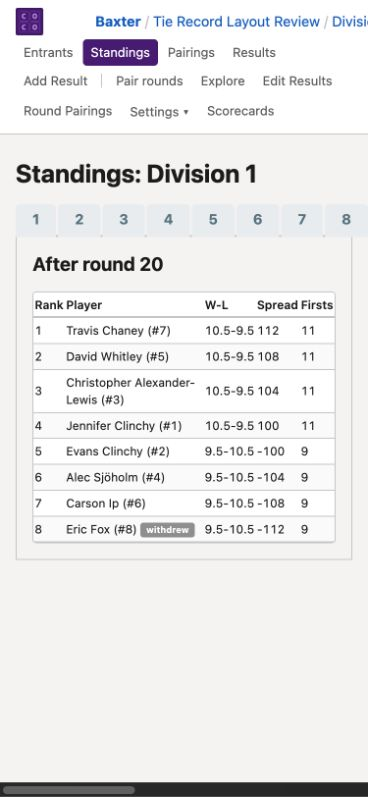
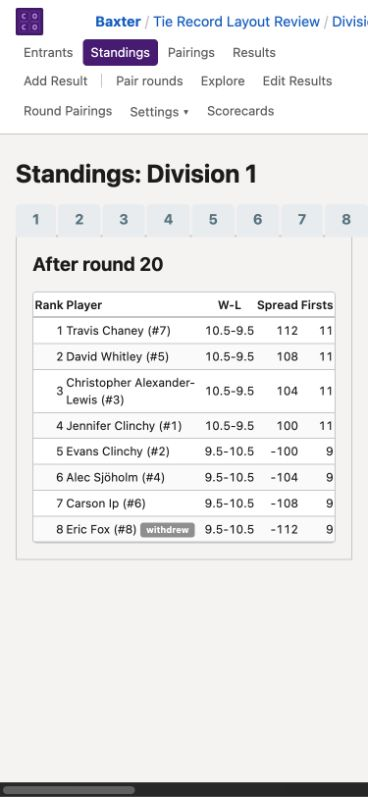
Align standings columns by data type

diff --git a/tests/browser/standings.spec.js b/tests/browser/standings.spec.js
@@ -104,6 +104,36 @@ async function expectNumericCellsToFit(page) {
   }
 }
 
+async function expectStandingsAlignment(page, { includeFirsts }) {
+  const expected = [
+    [".standings-rank", "right"],
+    [".standings-player", "left"],
+    [".standings-record", "center"],
+    [".standings-spread", "right"],
+  ];
+  if (includeFirsts) {
+    expected.push([".standings-firsts", "right"]);
+  }
+
+  for (const [selector, textAlign] of expected) {
+    const cells = page.locator(`.standings-table ${selector}`);
+    expect(await cells.count(), selector).toBeGreaterThan(0);
+    const styles = await cells.evaluateAll((elements) =>
+      elements.map((element) => ({
+        fontVariantNumeric: getComputedStyle(element).fontVariantNumeric,
+        textAlign: getComputedStyle(element).textAlign,
+      })),
+    );
+    expect(styles.every((style) => style.textAlign === textAlign), selector).toBe(true);
+    if (selector !== ".standings-player") {
+      expect(
+        styles.every((style) => style.fontVariantNumeric.includes("tabular-nums")),
+        selector,
+      ).toBe(true);
+    }
+  }
+}
+
 for (const width of mobileWidths) {
   for (const includeFirsts of [false, true]) {
     test(`mobile standings fit at ${width}px${includeFirsts ? " with Firsts" : ""}`, async ({
@@ -124,6 +154,7 @@ for (const width of mobileWidths) {
         });
       }
       await expectNumericCellsToFit(page);
+      await expectStandingsAlignment(page, { includeFirsts });
 
       const overflow = await page.getByTestId("standings-scroll").evaluate((element) => ({
         clientWidth: element.clientWidth,
@@ -207,6 +238,7 @@ test("tie records widen the W-L column to its widest value", async ({ page }) =>
 
   expect(tieRecordWidth).toBeGreaterThan(wholeRecordWidth);
   await expectNumericCellsToFit(page);
+  await expectStandingsAlignment(page, { includeFirsts: true });
 });
 
 test("desktop standings fill the container without horizontal scrolling", async ({ page }) => {
@@ -219,6 +251,7 @@ test("desktop standings fill the container without horizontal scrolling", async 
   }));
   expect(dimensions.scrollWidth).toBe(dimensions.clientWidth);
   await expectNumericCellsToFit(page);
+  await expectStandingsAlignment(page, { includeFirsts: true });
 
   const measurements = await cellLineCounts(
     page.locator(".standings-table th, .standings-table td"),

diff --git a/static/css/style.css b/static/css/style.css
@@ -767,6 +767,21 @@ td a:hover {
 
 .standings-table .standings-player {
     width: 100%;
+    text-align: left;
+}
+
+/* Quantities align on their trailing digits for quick comparison. A W-L
+   record is a compact compound value, so center it rather than treating it as
+   either prose or a single amount. Headers share the column classes and follow
+   the alignment of their data. */
+.standings-table .standings-rank,
+.standings-table .standings-spread,
+.standings-table .standings-firsts {
+    text-align: right;
+}
+
+.standings-table .standings-record {
+    text-align: center;
 }
 
 .standings-table td.standings-player {
